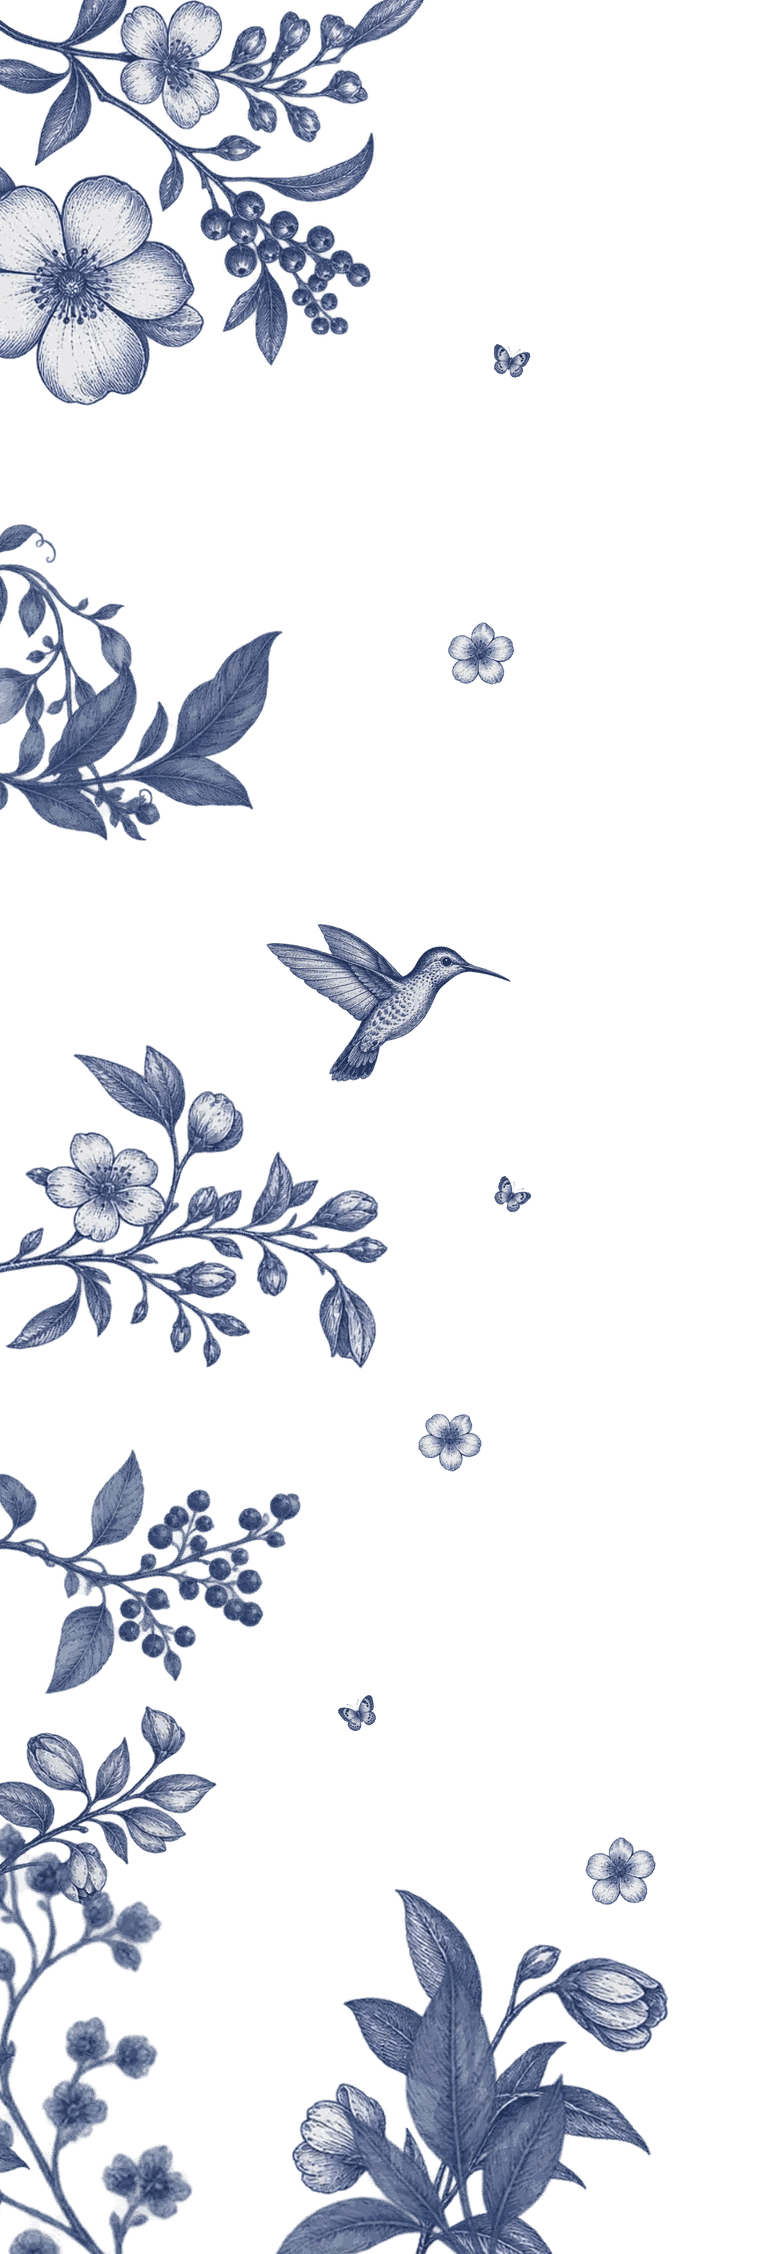
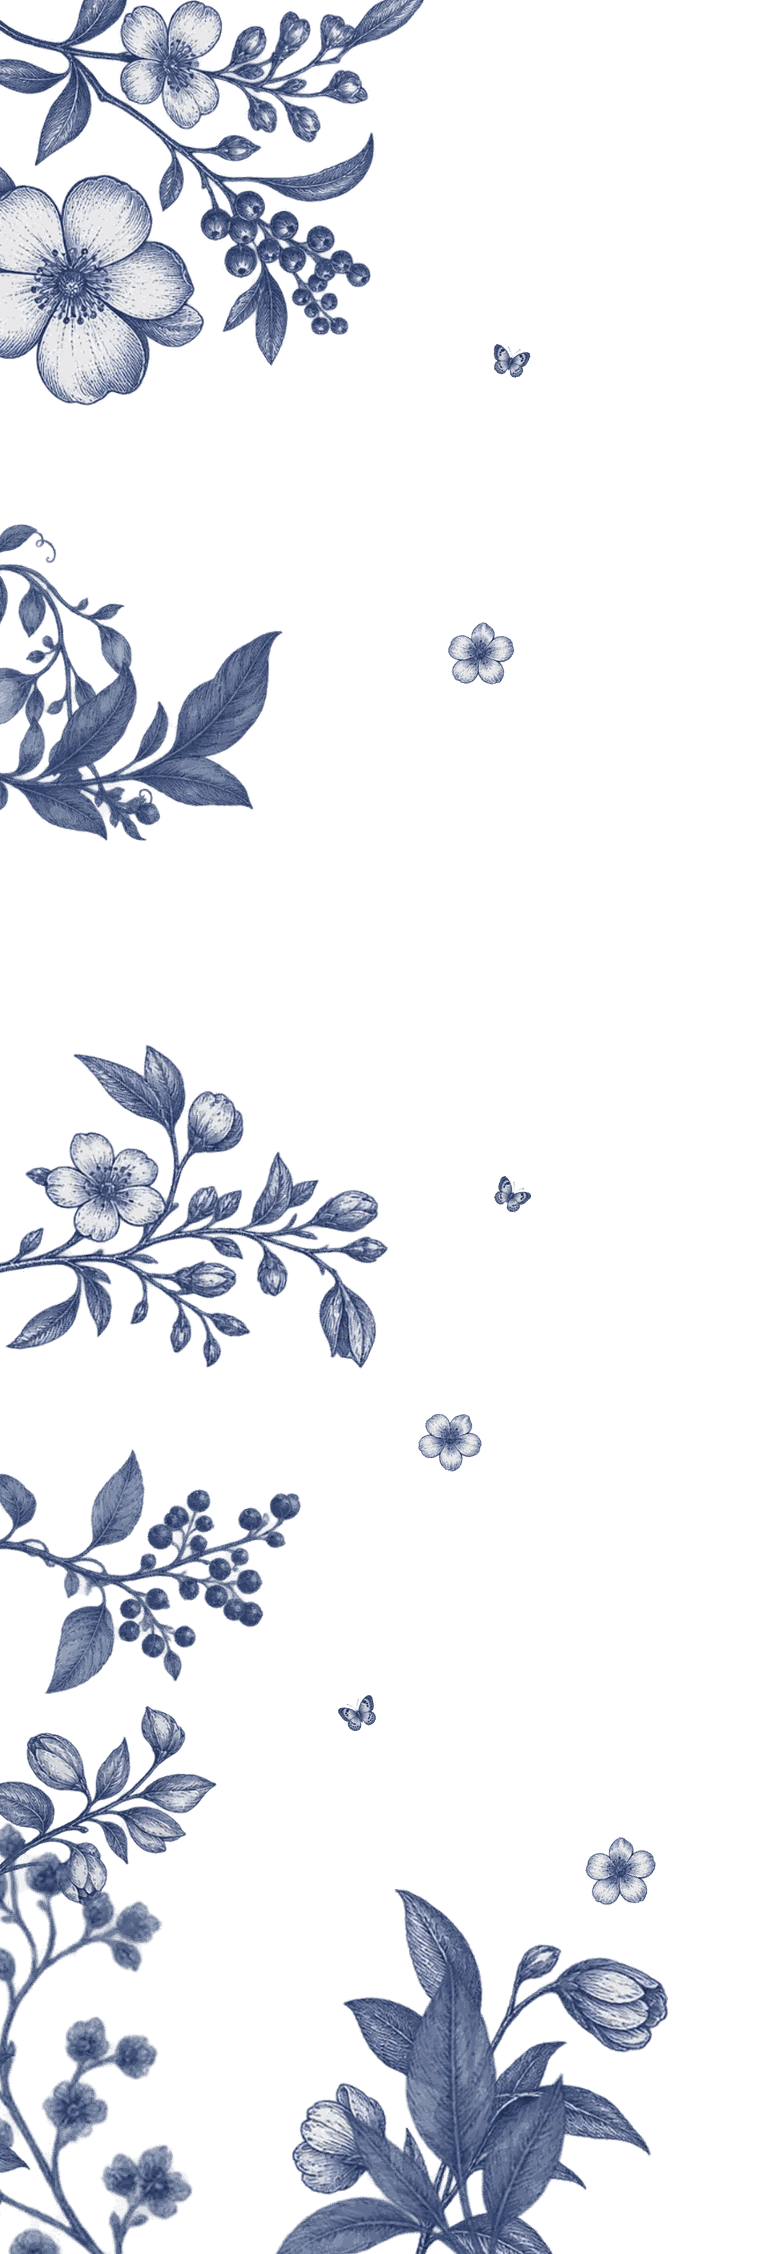
Accueil : retrait des branches du titre et du fond mobile, colibri inversé, compteur de visiteurs
- Branches encadrant le titre retirées, motifs de fond mobile retirés
- Colibri de la tuile Souvenirs inversé et éloigné du bord ; colibri du panneau gauche retiré
- Badge « Non publié » pour le plan ; compteur de visiteurs uniques sur les trois tuiles invités (table mo_visites)

Claude-Session: https://claude.ai/code/session_01FApuoemgso4M4GutVtsH3a

Changed region(s): [[0.3402, 0.4037, 0.6186, 0.4969]]

diff --git a/index.html b/index.html
@@ -7,7 +7,7 @@
 <title>Marie &amp; Olivier</title>
 <link rel="icon" type="image/png" href="assets/favicon.png">
 <link rel="apple-touch-icon" href="assets/apple-touch-icon.png">
-<link rel="stylesheet" href="assets/charte.css?v=202610241742">
+<link rel="stylesheet" href="assets/charte.css?v=202610241753">
 <style>
   main{max-width:1200px;margin:0 auto;padding:0 16px 0}
 
@@ -27,6 +27,9 @@
   .fonction{padding:24px 20px 18px;display:flex;flex-direction:column;gap:9px;transition:transform .2s,box-shadow .2s;overflow:hidden;min-height:290px;cursor:pointer}
   .fonction:hover{transform:translateY(-3px);box-shadow:0 20px 44px rgba(27,38,82,.16)}
   .fonction .deco{position:absolute;right:-10px;top:-6px;width:46%;max-height:46%;object-fit:contain;object-position:top right;opacity:.95}
+  .fonction .deco.carte-1{transform:scaleX(-1);right:22px;top:6px;width:40%}
+  .visites{position:relative;margin:0;font-size:.6rem;letter-spacing:.14em;text-transform:uppercase;color:var(--encre-douce);display:flex;align-items:center;gap:7px;min-height:1em;white-space:nowrap}
+  .visites::before{content:'✦';color:var(--or);font-size:.55rem}
   .fonction h3{font-size:1.5rem;font-style:italic;margin-top:70px;position:relative}
   .etat-pub{position:absolute;left:20px;top:18px;font-size:.6rem;letter-spacing:.16em;text-transform:uppercase;padding:3px 9px;border-radius:12px;border:1px solid var(--perle-fonce);color:var(--encre-douce);background:rgba(255,255,255,.7)}
   .etat-pub.ok{border-color:#9bbba6;color:var(--ok)} .etat-pub.non{border-color:#e0b4b8;color:var(--erreur)}
@@ -48,8 +51,6 @@
 </style>
 </head>
 <body data-ouverture="clic">
-<img class="motif branche-titre g" src="assets/motifs/branche-titre-gauche.png" alt="" draggable="false" decoding="async">
-<img class="motif branche-titre d" src="assets/motifs/branche-titre-droite.png" alt="" draggable="false" decoding="async">
 <main>
   <header class="tete"
     <p class="capitales">Notre mariage</p>
@@ -88,8 +89,8 @@
 
 <script src="assets/vendor/supabase.min.js"></script>
 <script src="assets/vendor/qrcode.min.js"></script>
-<script src="assets/commun.js?v=202610241742"></script>
-<script src="assets/ouverture.js?v=202610241742"></script>
+<script src="assets/commun.js?v=202610241753"></script>
+<script src="assets/ouverture.js?v=202610241753"></script>
 <script>
 const FONCTIONS = [
   { groupe: 'invites', deco: 'carte-1', titre: 'Déposer ses souvenirs', chemin: 'souvenirs/', etat: 'depot', accroche: 'Partagez vos souvenirs',
@@ -116,10 +117,11 @@ for (const f of FONCTIONS) {
   const url = urlSite(f.chemin);
   const el = document.createElement('article');
   el.className = 'fonction carte-papier';
-  el.innerHTML = `${motif(f.deco, 'deco')}
+  el.innerHTML = `${motif(f.deco, 'deco ' + f.deco)}
     ${f.etat ? `<span class="etat-pub" data-etat="${f.etat}">…</span>` : ''}
     <h3>${echap(f.titre)}</h3>
     <p>${echap(f.texte)}</p>
+    ${f.etat ? `<p class="visites" data-visites="${f.etat}"></p>` : ''}
     ${f.groupe === 'invites' ? `<div class="actions">
       <button class="btn clair" data-copier>Copier le lien</button>
       <button class="btn clair" data-qr>QR code</button>
@@ -152,7 +154,13 @@ $('#pied').innerHTML = piedBleu();
   poser('depot', depot, depot ? 'Dépôt ouvert' : 'Dépôt fermé');
   poser('programme', prog, prog ? 'Publié' : 'Non publié');
   const planOk = !!(plans.data && plans.data.length);
-  poser('plan', planOk, planOk ? 'Plan publié' : 'Plan non publié');
+  poser('plan', planOk, planOk ? 'Publié' : 'Non publié');
+  // visiteurs uniques de chaque page invités
+  for (const k of ['depot', 'plan', 'programme']) {
+    const { count } = await sb.from('mo_visites').select('page', { count: 'exact', head: true }).eq('page', k);
+    const el = $(`.visites[data-visites="${k}"]`); if (!el || count == null) continue;
+    el.textContent = count === 0 ? 'Aucune visite' : count === 1 ? '1 visiteur' : `${count.toLocaleString('fr-FR')} visiteurs`;
+  }
 })();
 
 /* ---------- Affiche A5 à imprimer : QR code habillé aux couleurs du faire-part ---------- */

diff --git a/assets/commun.js b/assets/commun.js
@@ -86,14 +86,7 @@ function colonnesCote(){
   // les grands panneaux ne sont chargés que si l'écran est assez large pour les afficher
   const poser = () => { if ($('.cote') || !matchMedia('(min-width:980px)').matches) return; document.body.insertAdjacentHTML('afterbegin', `<div class="cote gauche" aria-hidden="true">${motif('panneau-gauche')}</div><div class="cote droite" aria-hidden="true">${motif('panneau-droit')}</div>`); };
   poser(); matchMedia('(min-width:980px)').addEventListener('change', poser);
-  // petits écrans : quelques motifs du faire-part en fond, le long des bords
-  // (répartis sur la hauteur réelle de la page, en évitant le pied bleu)
-  if (!matchMedia('(min-width:980px)').matches && !$('.fond-mobile')) {
-    const pied = $('.pied-bleu'); const H = (pied ? pied.offsetTop : document.documentElement.scrollHeight) - innerWidth * .4;
-    const noms = [['couv-droite-haut', 'a'], ['couv-gauche-bas', 'b'], ['oiseau-branche', 'c'], ['motif-a', 'd']];
-    const n = Math.max(2, Math.min(4, Math.floor(H / (innerHeight * .5))));
-    noms.slice(0, n).forEach(([nom, cls], i) => document.body.insertAdjacentHTML('afterbegin', motif(nom, 'fond-mobile ' + cls, `top:${Math.round(innerHeight * .5 + (H - innerHeight * .5) * i / n)}px`)));
-  }
+
 }
 
 /* En-tête commun des pages invités : <header class="entete-site" data-titre="…" data-sous="…"> */
@@ -120,6 +113,16 @@ function piedBleu(){
   return `${motif('pied-gauche', 'blanc orn a')}${motif('pied-droit', 'blanc orn b')}
     <div class="monogramme">M<span class="et">&amp;</span>O</div>
     <p class="capitales">Samedi 5 décembre 2026 · Ouvrouer-les-Champs</p>`;
+}
+
+/* Compteur de visiteurs uniques d'une page invités (identifiant anonyme gardé sur l'appareil) */
+async function compterVisite(page){
+  if (!sb) return;
+  try {
+    let id = localStorage.getItem('mo_visiteur');
+    if (!id) { id = uuid(); localStorage.setItem('mo_visiteur', id); }
+    await sb.from('mo_visites').insert({ page, visiteur: id });   // doublon ignoré (clé primaire)
+  } catch {}
 }
 
 /* QR code (bibliothèque qrcodejs chargée par la page) */

diff --git a/assets/charte.css b/assets/charte.css
@@ -344,21 +344,6 @@ body.fp-ouvre main > .groupe + .groupe{animation-delay:.16s}
 .ruban-coin svg{position:absolute;top:26px;right:26px;width:104px;height:auto;transform:rotate(45deg);filter:drop-shadow(0 2px 3px rgba(27,38,82,.35))}
 @media (max-width:520px){.entete-site .ruban-coin{width:140px;height:140px}.ruban-coin::before{top:32px;right:-56px;height:24px;width:260px}.ruban-coin svg{width:68px;top:18px;right:18px}}
 
-/* Branches encadrant le titre de l'accueil (enfants directs de body, avant main) */
-.branche-titre{position:absolute;top:-20px;width:34vw;max-width:520px;pointer-events:none;z-index:0}
-.branche-titre.g{left:-3vw} .branche-titre.d{right:-3vw}
-html{overflow-x:hidden} body{overflow-x:clip}
-@media (max-width:979px){.branche-titre{width:40vw;top:-24px;opacity:.9} .branche-titre.g{left:-8vw} .branche-titre.d{right:-8vw}}
-/* Petits écrans : les panneaux latéraux n'ont pas de place ; des motifs discrets habillent le fond */
-.fond-mobile{display:none}
-@media (max-width:979px){
-  .fond-mobile{display:block;position:absolute;pointer-events:none;z-index:0;opacity:.6;width:52vw}
-  .fond-mobile.a{right:-18vw;transform:scaleX(-1)}
-  .fond-mobile.b{left:-18vw}
-  .fond-mobile.c{right:-20vw}
-  .fond-mobile.d{left:-18vw;transform:scaleX(-1)}
-}
-
 /* Impression : jamais de décor */
 @media print{ .cote,.pied-bleu,.bandeau-orga,.outils,.ruban-coin{display:none!important} body::before,body::after{display:none} }
 

diff --git a/plan-de-table/ma-place.html b/plan-de-table/ma-place.html
@@ -6,8 +6,8 @@
 <title>Marie &amp; Olivier</title>
 <link rel="icon" type="image/png" href="../assets/favicon.png">
 <link rel="apple-touch-icon" href="../assets/apple-touch-icon.png">
-<link rel="stylesheet" href="../assets/charte.css?v=202610241742">
-<link rel="stylesheet" href="plan.css?v=202610241742">
+<link rel="stylesheet" href="../assets/charte.css?v=202610241753">
+<link rel="stylesheet" href="plan.css?v=202610241753">
 <style>
   main{max-width:620px;margin:0 auto;padding:30px 16px 60px}
   .recherche{margin:26px auto 0;max-width:420px;text-align:center}
@@ -41,9 +41,10 @@
 </main>
 <footer class="pied-bleu" id="pied"></footer>
 <script src="../assets/vendor/supabase.min.js"></script>
-<script src="../assets/commun.js?v=202610241742"></script>
-<script src="../assets/ouverture.js?v=202610241742"></script>
-<script src="../assets/plan-geometrie.js?v=202610241742"></script>
+<script src="../assets/commun.js?v=202610241753"></script>
+<script>compterVisite('plan');</script>
+<script src="../assets/ouverture.js?v=202610241753"></script>
+<script src="../assets/plan-geometrie.js?v=202610241753"></script>
 <script>
 /* Page invités : aucun lien vers le reste du site, client sans session.
    Les données viennent de deux fonctions en base qui ne renvoient que le plan publié. */

diff --git a/souvenirs/index.html b/souvenirs/index.html
@@ -6,7 +6,7 @@
 <title>Marie &amp; Olivier</title>
 <link rel="icon" type="image/png" href="../assets/favicon.png">
 <link rel="apple-touch-icon" href="../assets/apple-touch-icon.png">
-<link rel="stylesheet" href="../assets/charte.css?v=202610241742">
+<link rel="stylesheet" href="../assets/charte.css?v=202610241753">
 <style>
   main{max-width:600px;margin:0 auto;padding:34px 16px 60px}
   .note{max-width:460px;margin:22px auto 0;text-align:center;font-size:1rem;color:var(--encre-douce)}
@@ -110,8 +110,9 @@
 
 <script src="../assets/vendor/supabase.min.js"></script>
 <script src="../assets/vendor/tus.min.js"></script>
-<script src="../assets/commun.js?v=202610241742"></script>
-<script src="../assets/ouverture.js?v=202610241742"></script>
+<script src="../assets/commun.js?v=202610241753"></script>
+<script>compterVisite('depot');</script>
+<script src="../assets/ouverture.js?v=202610241753"></script>
 <script>
 /* Page invités : aucun lien vers le reste du site.
    Client sans session : un invité dépose toujours en anonyme (droit d'écrire, jamais de lire). */

diff --git a/programme/index.html b/programme/index.html
@@ -6,7 +6,7 @@
 <title>Marie &amp; Olivier</title>
 <link rel="icon" type="image/png" href="../assets/favicon.png">
 <link rel="apple-touch-icon" href="../assets/apple-touch-icon.png">
-<link rel="stylesheet" href="../assets/charte.css?v=202610241742">
+<link rel="stylesheet" href="../assets/charte.css?v=202610241753">
 <style>
   main{max-width:560px;margin:0 auto;padding:30px 16px 70px}
   .jour{margin-top:40px;text-align:center}
@@ -32,9 +32,10 @@
 </main>
 <footer class="pied-bleu" id="pied"></footer>
 <script src="../assets/vendor/supabase.min.js"></script>
-<script src="../assets/commun.js?v=202610241742"></script>
-<script src="../assets/ouverture.js?v=202610241742"></script>
-<script src="../assets/programme.js?v=202610241742"></script>
+<script src="../assets/commun.js?v=202610241753"></script>
+<script>compterVisite('programme');</script>
+<script src="../assets/ouverture.js?v=202610241753"></script>
+<script src="../assets/programme.js?v=202610241753"></script>
 <script>
 $('#pap').remove();
 $('#pied').innerHTML = piedBleu();

diff --git a/projection/index.html b/projection/index.html
@@ -7,7 +7,7 @@
 <title>Marie &amp; Olivier</title>
 <link rel="icon" type="image/png" href="../assets/favicon.png">
 <link rel="apple-touch-icon" href="../assets/apple-touch-icon.png">
-<link rel="stylesheet" href="../assets/charte.css?v=202610241742">
+<link rel="stylesheet" href="../assets/charte.css?v=202610241753">
 <style>
   html,body{height:100%;overflow:hidden}
   body{background:radial-gradient(ellipse at 50% 40%,#fbfaf7,var(--satin) 60%,var(--perle) 100%)}
@@ -68,7 +68,7 @@
 
 <script src="../assets/vendor/supabase.min.js"></script>
 <script src="../assets/vendor/qrcode.min.js"></script>
-<script src="../assets/commun.js?v=202610241742"></script>
+<script src="../assets/commun.js?v=202610241753"></script>
 <script>
 Object.assign(CONFIG, { DUREE_PHOTO: 9000, DUREE_MOT: 11000, DUREE_VIDEO_MAX: 45000, RAFRAICHIR: 60000, LARGEUR_IMAGE: 1600, CACHE_MAX_VIDEO: 100 * 1048576, CACHE_MAX_TOTAL: 1500 * 1048576 });
 let items = [], connus = new Set(), file = [], nouveaux = [];

diff --git a/plan-de-table/index.html b/plan-de-table/index.html
@@ -7,8 +7,8 @@
 <title>Marie &amp; Olivier</title>
 <link rel="icon" type="image/png" href="../assets/favicon.png">
 <link rel="apple-touch-icon" href="../assets/apple-touch-icon.png">
-<link rel="stylesheet" href="../assets/charte.css?v=202610241742">
-<link rel="stylesheet" href="plan.css?v=202610241742">
+<link rel="stylesheet" href="../assets/charte.css?v=202610241753">
+<link rel="stylesheet" href="plan.css?v=202610241753">
 </head>
 <body class="editeur">
 
@@ -166,8 +166,8 @@ Léa Martin ; Amis</pre>
 <div id="impression"></div>
 
 <script src="../assets/vendor/supabase.min.js"></script>
-<script src="../assets/commun.js?v=202610241742"></script>
-<script src="../assets/plan-geometrie.js?v=202610241742"></script>
-<script src="plan.js?v=202610241742"></script>
+<script src="../assets/commun.js?v=202610241753"></script>
+<script src="../assets/plan-geometrie.js?v=202610241753"></script>
+<script src="plan.js?v=202610241753"></script>
 </body>
 </html>

diff --git a/planning/index.html b/planning/index.html
@@ -7,7 +7,7 @@
 <title>Marie &amp; Olivier</title>
 <link rel="icon" type="image/png" href="../assets/favicon.png">
 <link rel="apple-touch-icon" href="../assets/apple-touch-icon.png">
-<link rel="stylesheet" href="../assets/charte.css?v=202610241742">
+<link rel="stylesheet" href="../assets/charte.css?v=202610241753">
 <style>
   main{max-width:1000px;margin:0 auto;padding:10px 16px 90px}
   header.tete{text-align:center;position:relative}
@@ -104,8 +104,8 @@
 <footer class="pied-bleu" id="pied"></footer>
 
 <script src="../assets/vendor/supabase.min.js"></script>
-<script src="../assets/commun.js?v=202610241742"></script>
-<script src="../assets/programme.js?v=202610241742"></script>
+<script src="../assets/commun.js?v=202610241753"></script>
+<script src="../assets/programme.js?v=202610241753"></script>
 <script>
 let items = [], jourActif = null, edition = false, enEdition = null;
 $('#pied').innerHTML = piedBleu('');

diff --git a/souvenirs/admin.html b/souvenirs/admin.html
@@ -7,7 +7,7 @@
 <title>Marie &amp; Olivier</title>
 <link rel="icon" type="image/png" href="../assets/favicon.png">
 <link rel="apple-touch-icon" href="../assets/apple-touch-icon.png">
-<link rel="stylesheet" href="../assets/charte.css?v=202610241742">
+<link rel="stylesheet" href="../assets/charte.css?v=202610241753">
 <style>
   main{max-width:1000px;margin:0 auto;padding:10px 16px 60px}
   .barre-outils{display:flex;gap:10px;flex-wrap:wrap;align-items:center;margin:20px 0}
@@ -69,7 +69,7 @@
 
 <script src="../assets/vendor/supabase.min.js"></script>
 <script src="../assets/vendor/jszip.min.js"></script>
-<script src="../assets/commun.js?v=202610241742"></script>
+<script src="../assets/commun.js?v=202610241753"></script>
 <script>
 let envois = [], tous = [], corbeille = false;
 $('#btn-corbeille').onclick = () => { corbeille = !corbeille; rendreListe(); };
